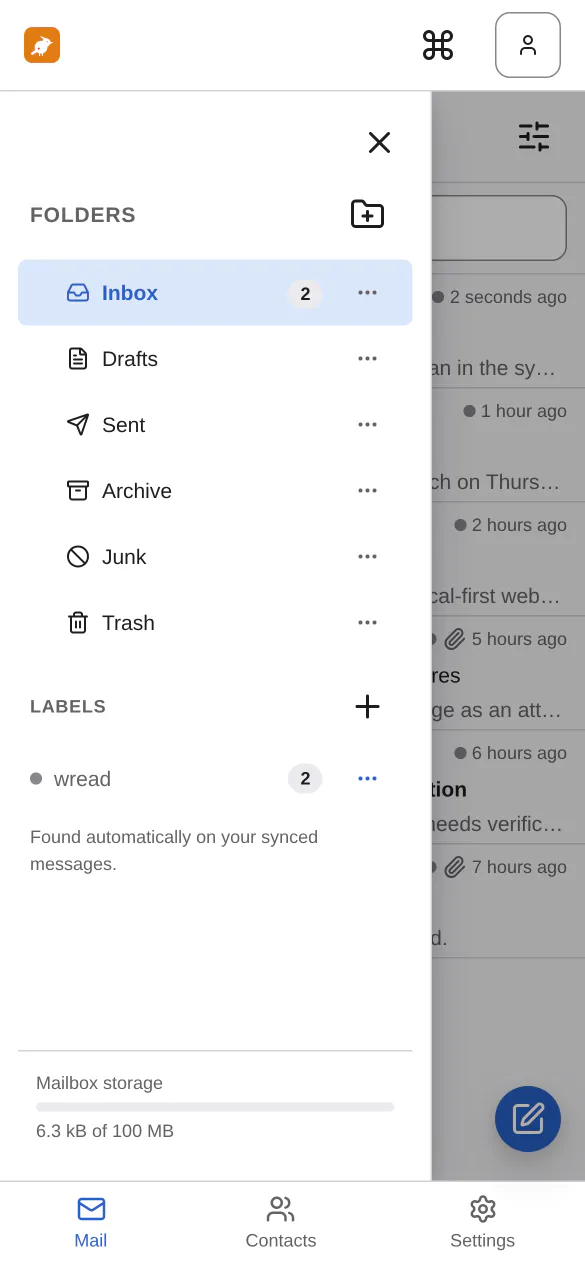
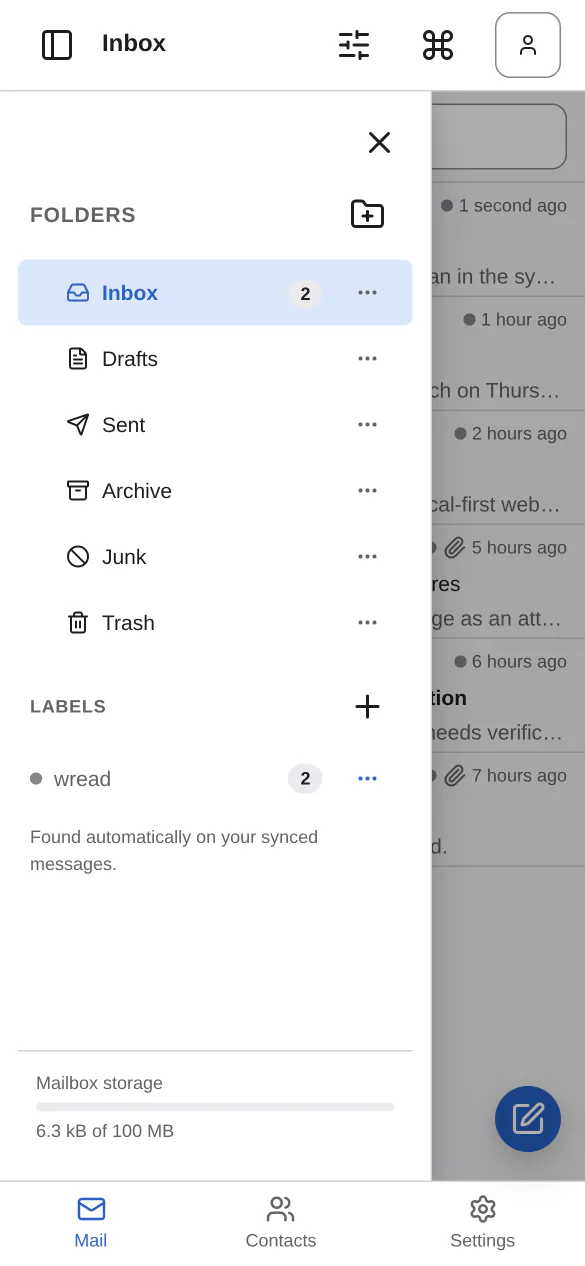
fix(web): one bar on a phone, not two
Measured on a 390 × 844 phone with touch sizing: chrome above the list **183 → 122 px** (29 % → 21 %
of the viewport), and the list goes from 7.9 visible rows to **8.8**. Against where this audit
started, 390 → 122 px and 5.2 → 8.8 rows.

The last round had thinned both strips without asking whether there should be two. There should not:
the upper one held a logo and two buttons — 61 px for a mark, a command-palette button and an
account button — directly above a second strip carrying the folder toggle, the folder name and the
view-options button. The project owner marked it on a screenshot, and he was right; the controls fit
beside the title with room to spare.

The active screen now renders its own bar INTO the header below 40em: `[folders] [Inbox] [view] …
[palette] [account]`, and in the reading pane `[← Back to messages] … [palette] [account]`. Two
things made that worth doing rather than hacking:

- **A portal, not lifted state.** The bar's content depends on `MailScreen`'s own state (drawer open,
  options disclosed, which pane is showing), and hoisting that into `AppShell` would make the
  shell's layout depend on which screen is mounted. The header exposes a slot; the screen fills it.
- **A LAYOUT effect, not a passive one.** With `useEffect` the toolbar rendered once inside the pane
  and moved into the header a frame later — a visible jump on the device, and in tests a node
[…]

diff --git a/apps/web/src/app/shell/MailScreen.tsx b/apps/web/src/app/shell/MailScreen.tsx
@@ -15,7 +15,8 @@
  */
 
 import { ChevronLeft, PanelLeft, SlidersHorizontal, X } from 'lucide-react'
-import { useCallback, useEffect, useMemo, useRef, useState } from 'react'
+import { useCallback, useEffect, useLayoutEffect, useMemo, useRef, useState } from 'react'
+import { createPortal } from 'react-dom'
 import { useTranslation } from 'react-i18next'
 import { AccountTrees } from '../../mail/AccountTrees'
 import { ActiveAccountScope } from '../../mail/ActiveAccountScope'
@@ -40,6 +41,7 @@ import {
   useRouter,
 } from '../route'
 import { useSession } from '../session/context'
+import { SCREEN_BAR_ID } from './Header'
 import { computePaneLayout, useLayoutTier, useReadingPaneMode } from './layout'
 import styles from './shell.module.css'
 
@@ -108,6 +110,23 @@ export function MailScreen() {
     if (inbox === undefined) return
     navigate(mailPath(inbox.id), { replace: true })
   }, [mailboxId, browsingWithoutFolder, inbox, navigate])
+
+  /**
+   * On a phone the screen's bar lives in the shell header, not in a strip of its own.
+   *
+   * Looked up after mount rather than passed down: the header is a sibling several levels up, and
+   * threading a ref through `AppShell` would make the shell's layout depend on which screen is
+   * mounted. Re-queried when the tier changes, because the slot only exists below 40em — above it
+   * the panes keep their own toolbars, where there is room and where the brand still sits.
+   */
+  const [screenBarSlot, setScreenBarSlot] = useState<HTMLElement | null>(null)
+  // A LAYOUT effect, so the bar is in its final place before the first paint. With a passive effect
+  // the toolbar rendered once inside the pane and then moved into the header a frame later — a
+  // visible jump on the device, and in tests a node that is already detached by the time anything
+  // clicks it.
+  useLayoutEffect(() => {
+    setScreenBarSlot(tier === 'phone' ? document.getElementById(SCREEN_BAR_ID) : null)
+  }, [tier])
 
   const drawerCapable = tier !== 'desktop'
   const [foldersOpen, setFoldersOpen] = useState(false)
@@ -212,6 +231,48 @@ export function MailScreen() {
     ? `${styles.folderRegion} ${styles.folderRegionOpen}`
     : styles.folderRegion
 
+  /**
+   * The list's own controls, as content rather than as a strip.
+   *
+   * They render either in the pane's toolbar (tablet and desktop) or, on a phone, straight into the
+   * shell header — one row instead of two. Same nodes, same handlers, same ids either way; only the
+   * parent differs, so nothing about the drawer or the disclosure has to know which it is.
+   */
+  const listBar = (
+    <>
+      {drawerCapable && (
+        <IconButton
+          id={FOLDER_TOGGLE_ID}
+          label={t('shell.folders.show')}
+          variant="ghost"
+          onClick={() => setFoldersOpen(true)}
+          aria-expanded={foldersOpen}
+          aria-controls={FOLDER_REGION_ID}
+        >
+          <PanelLeft />
+        </IconButton>
+      )}
+      <h1 className={styles.paneTitle}>{listTitle}</h1>
+      <IconButton
+        label={viewOptionsOpen ? t('list.viewOptions.hide') : t('list.viewOptions.show')}
+        variant="ghost"
+        aria-expanded={viewOptionsOpen}
+        aria-controls={VIEW_OPTIONS_ID}
+        onClick={() => setViewOptionsOpen((open) => !open)}
+      >
+        <SlidersHorizontal />
+      </IconButton>
+    </>
+  )
+
+  /** The reading pane's way back, on the one tier where the list is not beside it. */
+  const readingBar = (
+    <Button variant="ghost" onClick={backToList}>
+      <ChevronLeft aria-hidden="true" />
+      {t('shell.reading.back')}
+    </Button>
+  )
+
   const listPane = (
     // The landmark keeps its stable name ("Messages"); the folder is stated by the heading inside
     // it. Naming the REGION after the folder was the first attempt and it was worse in two ways: a
@@ -220,38 +281,7 @@ export function MailScreen() {
     // list is this" for a screen reader just as well — headings are navigable — and it is visible,
     // which the landmark name never was.
     <section className={styles.pane} aria-label={t('shell.list.title')} ref={listRef} tabIndex={-1}>
-      {/*
-        One row, three jobs — it replaces a row that did exactly one.
-        Before, this strip held the folder toggle ALONE (61 px on a phone, one 44 px button and
-        320 px of nothing) while the list's own view options took a further ~156 px underneath, and
-        nowhere on the whole screen did it say which folder you were looking at. Trash, Archive and
-        Inbox were indistinguishable — which matters, because swiping to archive means something
-        different in each.
-      */}
-      <div className={styles.paneToolbar}>
-        {drawerCapable && (
-          <IconButton
-            id={FOLDER_TOGGLE_ID}
-            label={t('shell.folders.show')}
-            variant="ghost"
-            onClick={() => setFoldersOpen(true)}
-            aria-expanded={foldersOpen}
-            aria-controls={FOLDER_REGION_ID}
-          >
-            <PanelLeft />
-          </IconButton>
-        )}
-        <h1 className={styles.paneTitle}>{listTitle}</h1>
-        <IconButton
-          label={viewOptionsOpen ? t('list.viewOptions.hide') : t('list.viewOptions.show')}
-          variant="ghost"
-          aria-expanded={viewOptionsOpen}
-          aria-controls={VIEW_OPTIONS_ID}
-          onClick={() => setViewOptionsOpen((open) => !open)}
-        >
-          <SlidersHorizontal />
-        </IconButton>
-      </div>
+      {screenBarSlot === null && <div className={styles.paneToolbar}>{listBar}</div>}
       <SearchBox search={search} />
       <div className={styles.paneBody}>
         <MessageList
@@ -272,13 +302,8 @@ export function MailScreen() {
       ref={readingRef}
       tabIndex={-1}
     >
-      {singleReading && (
-        <div className={styles.paneToolbar}>
-          <Button variant="ghost" onClick={backToList}>
-            <ChevronLeft aria-hidden="true" />
-            {t('shell.reading.back')}
-          </Button>
-        </div>
+      {singleReading && screenBarSlot === null && (
+        <div className={styles.paneToolbar}>{readingBar}</div>
       )}
       <div className={styles.paneBody}>
         {emailId !== undefined ? (
@@ -314,6 +339,11 @@ export function MailScreen() {
 
   return (
     <div className={styles.mailScreen}>
+      {/* The phone's single bar. Portalled rather than lifted, so the shell header stays ignorant of
+          which screen is mounted and this component keeps its own state where it uses it. Whichever
+          pane is on screen supplies the content: the list's controls, or the way back from a
+          message. */}
+      {screenBarSlot !== null && createPortal(singleReading ? readingBar : listBar, screenBarSlot)}
       {/*
         While it is a drawer this is a MODAL surface, and it now behaves like one.
         `useFocusTrap` moves focus inside on open, wraps Tab at the ends, and restores focus to the

diff --git a/apps/web/src/app/shell/shell.module.css b/apps/web/src/app/shell/shell.module.css
@@ -316,6 +316,16 @@
   border-block-end: 1px solid var(--waxwing-border);
 }
 
+/* Where the active screen's bar lands inside the header (phone only — see Header.tsx). Empty and
+   inert on wider tiers, where each pane keeps its own toolbar. */
+.screenBar {
+  display: flex;
+  align-items: center;
+  gap: var(--waxwing-space-2);
+  flex: 1;
+  min-inline-size: 0;
+}
+
 /* Which list this is. Takes the slack so the two buttons sit at the ends, and truncates rather than
    wrapping — a folder name is user data with no length limit. */
 .paneTitle {
@@ -386,12 +396,23 @@
     display: none;
   }
 
-  /* The wordmark goes too. It is ~80 px of a 390 px strip for something the tab title, the sign-in
-     screen, the account menu and every notification already say — and on the one viewport where
-     each of those 80 px is a piece of somebody's mail. The logo stays: 24 px, and it is the only
-     thing identifying the app at a glance once the name is gone. FR-THEME-02 is unaffected — it
-     asks for the name to be configurable, not to be permanently on screen. */
-  .brandName {
+  /*
+   * The brand goes entirely — wordmark AND mark.
+   *
+   * Hiding the name alone left a 24 px logo and two buttons occupying a 61 px strip, with the
+   * screen's own bar in a second strip below it: two rows for what fits in one. The header now
+   * carries the active screen's controls (`.screenBar`), so the brand has no room to justify. It is
+   * still in the tab title, on the sign-in screen, in the account menu and on every notification —
+   * FR-THEME-02 asks for the name to be configurable, not to be permanently on screen.
+   */
+  .brand {
+    display: none;
+  }
+
+  /* The spacer had `flex: 1` and so did the screen bar beside it, so the two split the free space
+     and the folder title was squeezed to "I." between them. With the brand gone the bar IS the
+     flexible element; the spacer has nothing left to push apart. */
+  .spacer {
     display: none;
   }
 }

diff --git a/apps/web/src/app/shell/Header.tsx b/apps/web/src/app/shell/Header.tsx
@@ -18,6 +18,9 @@ import { AccountMenu } from './AccountMenu'
 import { StatusRegion } from './StatusRegion'
 import styles from './shell.module.css'
 
+/** The element an active screen portals its own bar into — see the comment at its render site. */
+export const SCREEN_BAR_ID = 'waxwing-screen-bar'
+
 export interface HeaderProps {
   readonly config: WaxwingConfig
   readonly username: string
@@ -45,6 +48,19 @@ export function Header({ config, username }: HeaderProps) {
         <img className={styles.brandLogo} src={logoSrc} alt="" />
         <span className={styles.brandName}>{branding.productName}</span>
       </Link>
+      {/*
+        Where the active screen puts its own bar on a phone.
+
+        Below 40em the brand is hidden entirely and the mail screen renders its folder toggle, folder
+        title and view-options button in HERE instead of in a second strip below — so one row carries
+        both the screen's controls and the shell's, where there used to be two. It was the last
+        obvious waste on that viewport: the upper row held a logo and two buttons and nothing else,
+        61 px for what fits beside the title.
+
+        An empty div on tablet and desktop, where the brand is on screen and each pane keeps its own
+        toolbar; the mail screen decides which of the two it is (see `screenBarSlot`).
+      */}
+      <div id={SCREEN_BAR_ID} className={styles.screenBar} />
       <div className={styles.spacer} />
       <div className={styles.headerControls}>
         {/* Discoverability (and the only way to reach the palette on a touch device, where there is

diff --git a/e2e/audit/capture.spec.ts b/e2e/audit/capture.spec.ts
@@ -39,7 +39,7 @@ async function signIn(page: Page): Promise<void> {
   await page.getByLabel('Benutzername', { exact: true }).fill(CREDENTIALS.user)
   await page.getByLabel('Passwort', { exact: true }).fill(CREDENTIALS.pass)
   await page.getByRole('checkbox', { name: 'Angemeldet bleiben' }).check()
-  await page.getByRole('button', { name: 'Anmelden', exact: true }).click()
+  await page.getByRole('button', { name: 'Mit Passwort anmelden', exact: true }).click()
   // NOT the folder navigation: on a phone it is an off-canvas drawer with `visibility: hidden`, so
   // it is absent from the accessibility tree and no role query can ever see it.
   await expect(page.getByRole('region', { name: 'Nachrichten' })).toBeVisible({ timeout: 30_000 })

diff --git a/apps/web/src/mail/reading.module.css b/apps/web/src/mail/reading.module.css
@@ -259,6 +259,24 @@
   gap: var(--waxwing-space-1);
 }
 
+/*
+ * Tighter on a phone, because the grouping is a RATIO, not a pair of fixed numbers.
+ *
+ * 16 px between groups and 4 px within reads well at 420 px of pane; at 390 px of viewport it cost a
+ * third row — three strips of icons is worse than the two ungrouped ones it replaced. 12 px against
+ * 2 px keeps the same visual relationship (six times, rather than four) and brings the six filing
+ * and state actions back onto one line, with the reply group on the next.
+ */
+@media (max-width: 39.999em) {
+  .actionBar {
+    gap: var(--waxwing-space-3);
+  }
+
+  .actionGroup {
+    gap: var(--waxwing-space-hair);
+  }
+}
+
 .actionSpacer {
   flex: 1;
 }

diff --git a/docs/ui-audit.md b/docs/ui-audit.md
@@ -32,9 +32,16 @@ echter Touch-Bemaßung:
 | Zustand | Chrome über der Liste | Sichtbare Zeilen |
 |---|---|---|
 | Posteingang, vorher | 390 px (53 %) | 5,2 |
-| Posteingang, nachher | **183 px (29 %)** | **7,9** |
+| Posteingang, nachher | **122 px (21 %)** | **8,8** |
 | Suche aktiv, vorher | 492 px (65 %) | 3,9 |
-| Suche aktiv, nachher | **280 px (40 %)** | **6,7** |
+| Suche aktiv, nachher | **267 px (38 %)** | **6,8** |
+
+Übrig sind auf dem Telefon genau zwei Bänder: die Kopfzeile, die jetzt auch die Bedienelemente des
+aktiven Bildschirms trägt, und das Suchfeld. Der zweite Streifen — Logo und zwei Knöpfe in einer
+eigenen 61-px-Zeile über einer zweiten mit Ordner-Knopf und Titel — ist zusammengelegt, nachdem der
+Projektinhaber auf dem Screenshot markiert hatte, was dort noch verschenkt wird. Das war der
+richtige Einwand: A1 und A2 hatten die Optionen und den Ordner-Knopf verschlankt, aber die beiden
+Zeilen als solche stehen lassen.
 
 **Drei Befunde wurden bewusst anders gelöst als vorgeschlagen** — jeweils mit Begründung im
 zugehörigen Commit:
